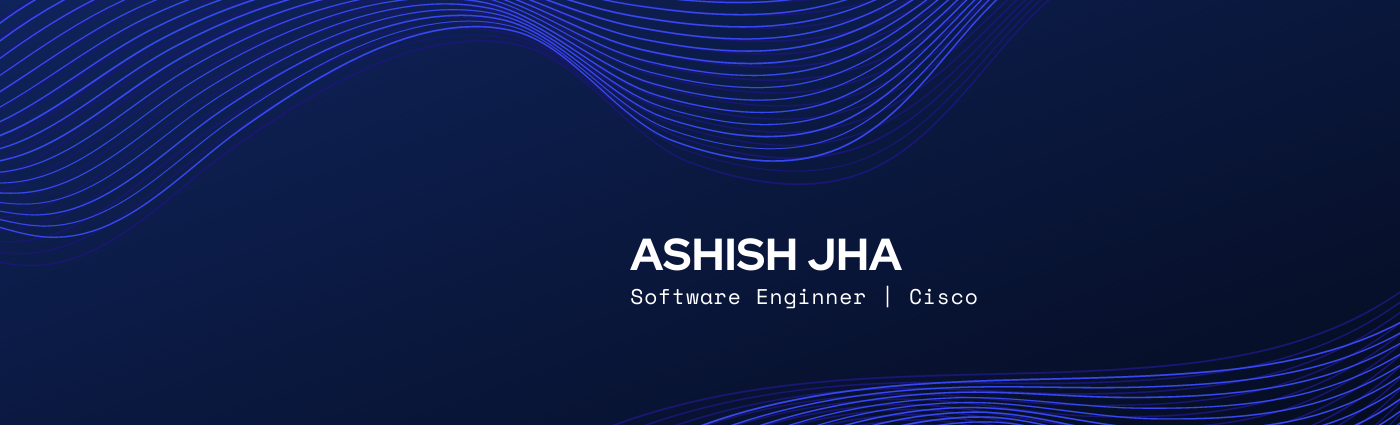
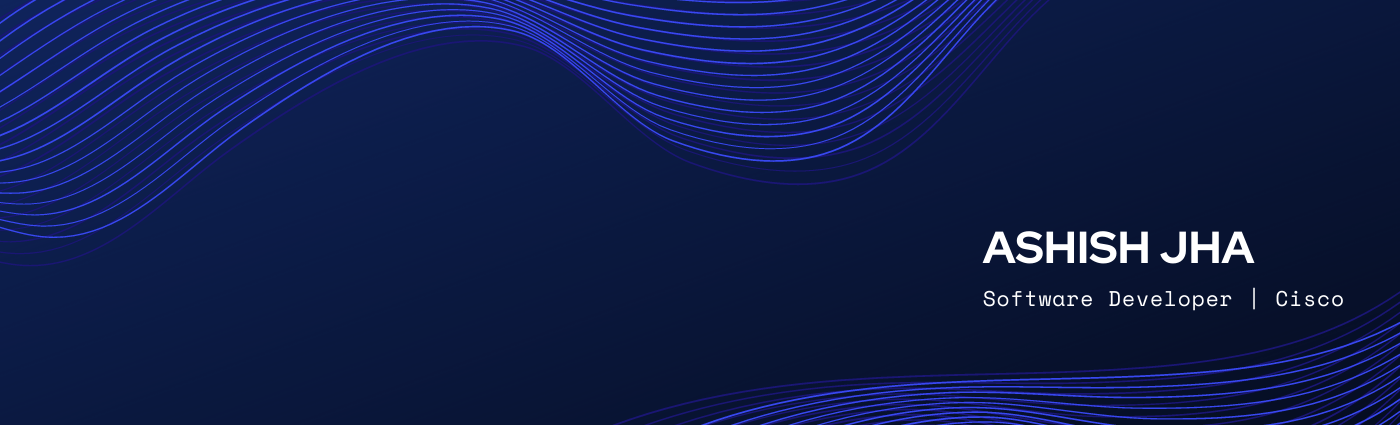
Added Profile count

diff --git a/README.md b/README.md
@@ -1,10 +1,12 @@
 
 
-<img src="https://raw.githubusercontent.com/lapalb/lapalb/master/ASHISH%20JHA%20(1).png" alt="banner that says Monica Powell - software engineer, content creator and community organizer alongside a cartoon illustration of Monica">
+<img src="https://raw.githubusercontent.com/lapalb/lapalb/master/header.png" alt="banner that says Monica Powell - software engineer, content creator and community organizer alongside a cartoon illustration of Monica">
 I'm a software engineer who is passionate about making open-source more accessible, creating technology to elevate people, and building community.
 
-![Anurag's github stats](https://github-readme-stats.vercel.app/api?username=lapalb)
+![Ashish's github stats](https://github-readme-stats.vercel.app/api?username=lapalb)
 
+
+![](https://komarev.com/ghpvc/?username=lapalb&color=blue)
 ## Find me around the web 🌎:
 
 - Sharing updates on <a href="https://www.linkedin.com/in/ashish-jha-6bb7b3101">LinkedIn</a> 💼
